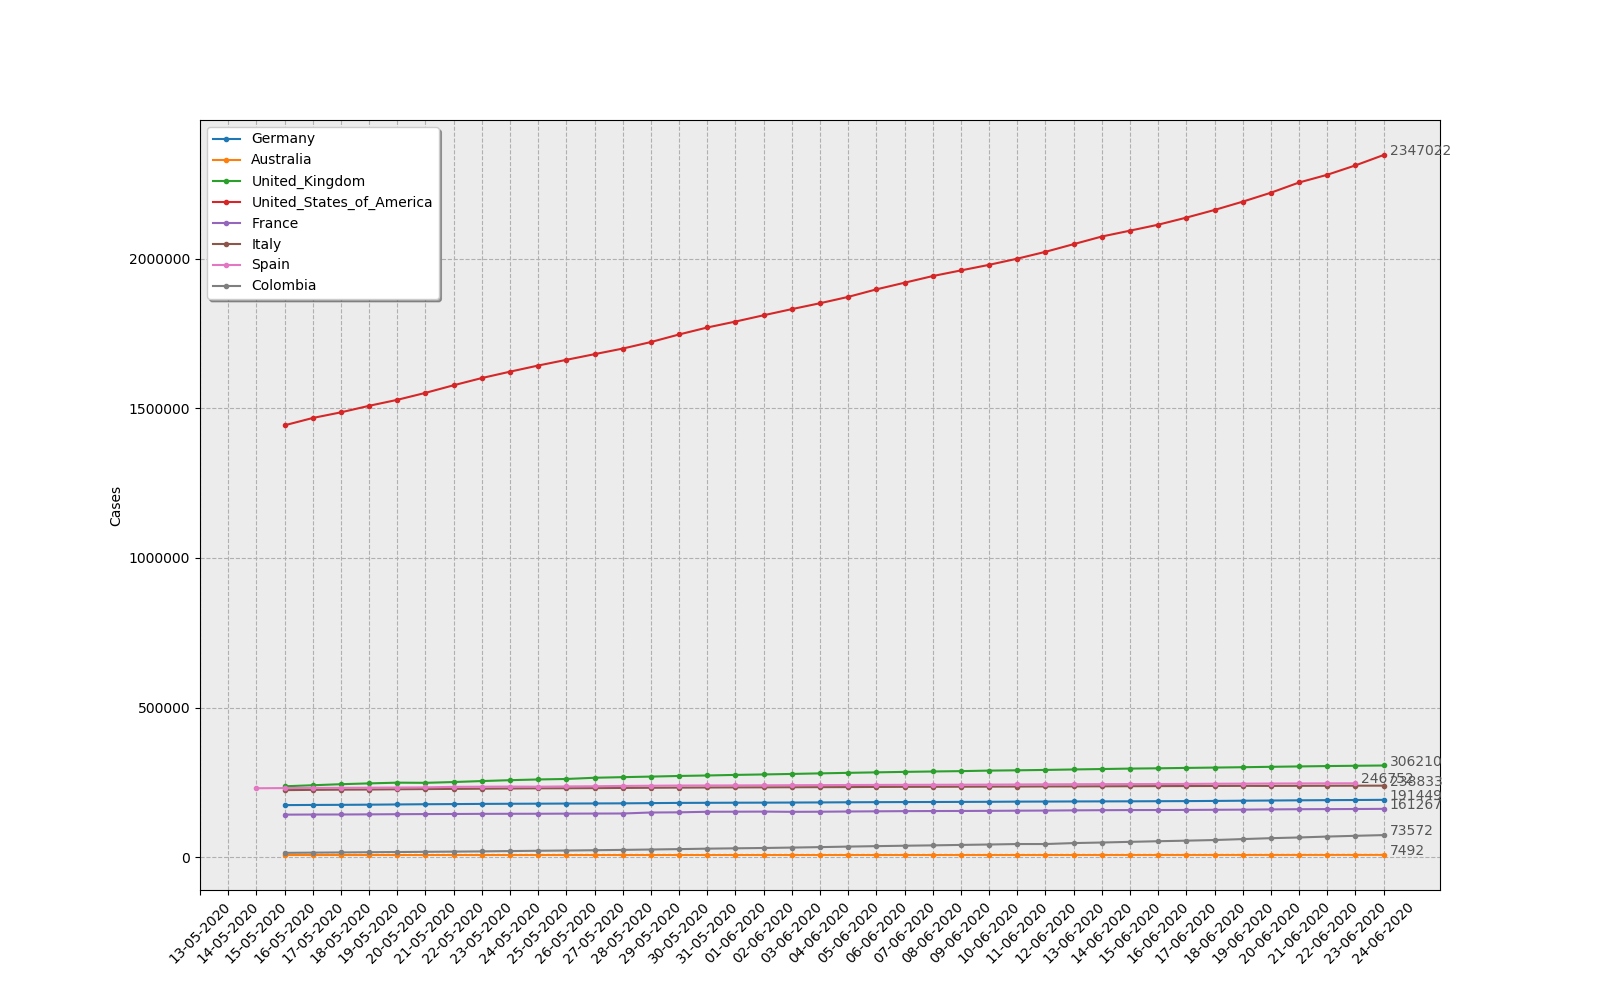
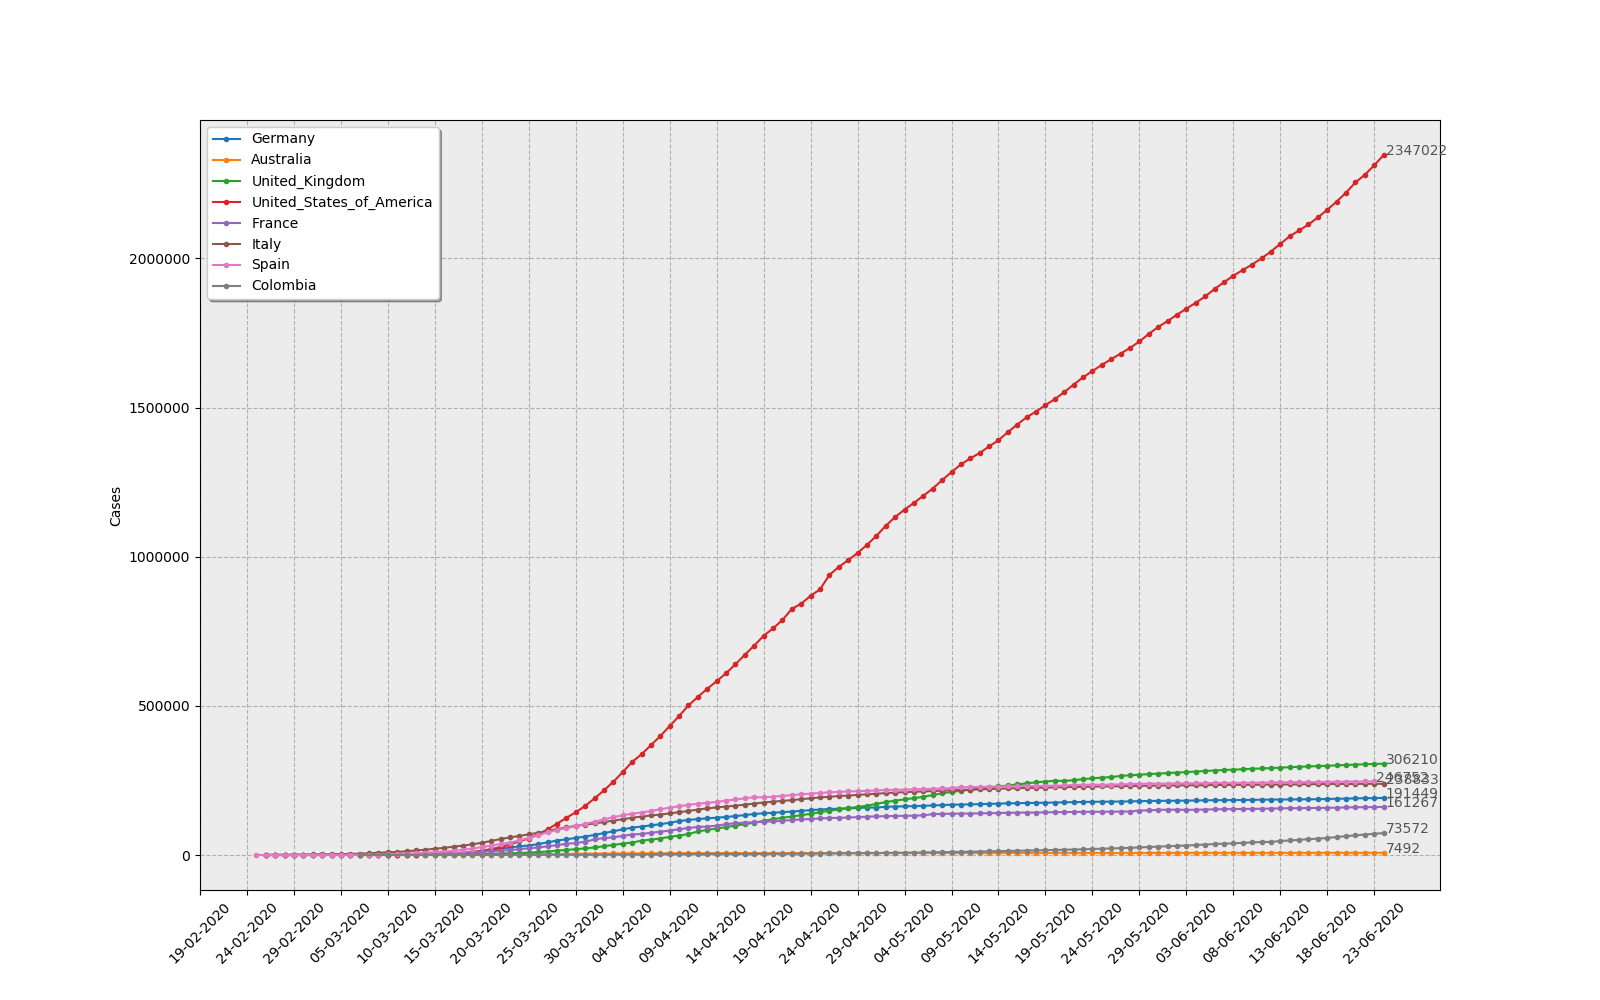
06/24/2020

diff --git a/utils.py b/utils.py
@@ -46,7 +46,7 @@ def build_plot(data, countries, data_type='Not specified', vis=40, dpi=100):
                     data[country]['CUM_DEATHS'][-1], color='#555555')
     ax.legend(countries, loc='upper left', shadow=True)
     ax.set_ylabel(data_type)
-    ax.set_xticks(mdates.num2date(datestr2num(data['Italy']['DATE'][0::1])))
+    ax.set_xticks(mdates.num2date(datestr2num(data['Italy']['DATE'][0::5])))
     ax.grid(True, linestyle='--')
     ax.xaxis.set_major_formatter(myFmt)
     ax.set_facecolor('#ECECEC')

diff --git a/covid19.py b/covid19.py
@@ -17,7 +17,7 @@ countries = ['Colombia',
              'Australia',
              'Germany']
 
-vis = 40 # Plot last 'vis' days (default=40)
+vis = 120 # Plot last 'vis' days (default=40)
 dpi = 100 # PNG image saving dpi
 
 today = date.today()
